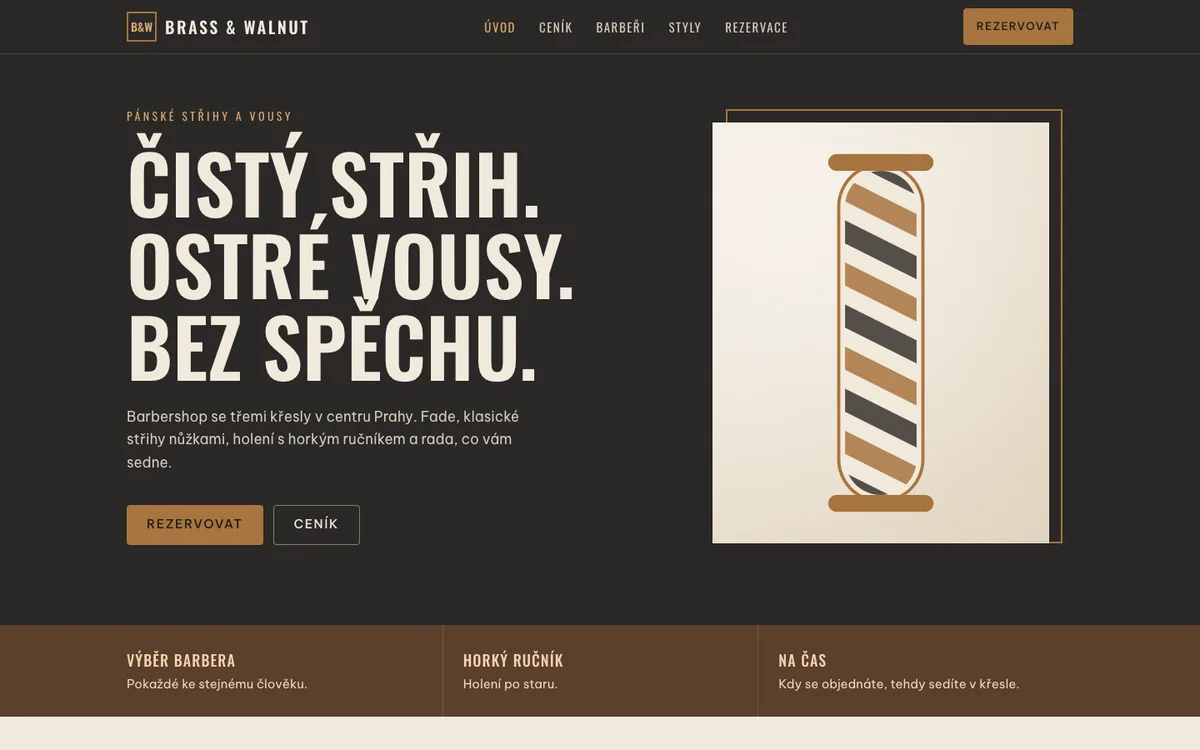
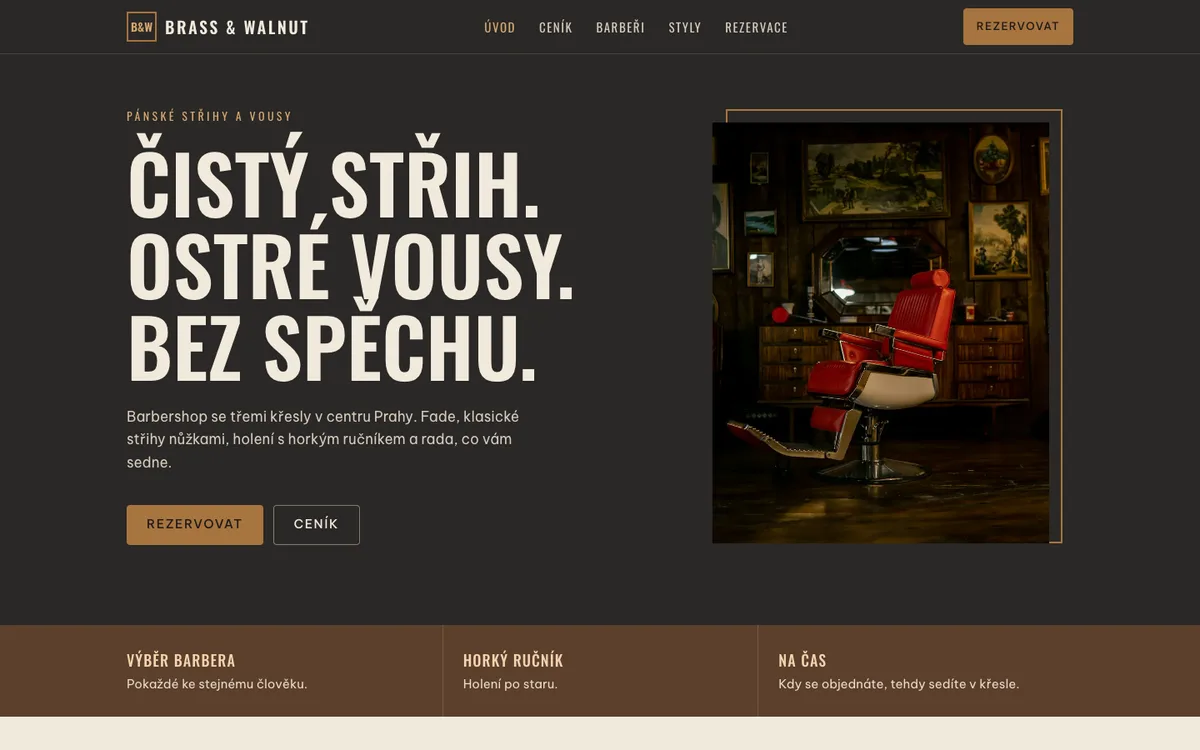
feat(website): ảnh thật (Unsplash, giấy phép miễn phí) cho 14 website mẫu
- 97 ảnh nail/tóc/spa/mi/makeup/barber, WebP 1400px, public/images/website/demo
- Gắn ảnh theo mẫu ở templates/photos.ts; nguồn từng ảnh: docs/website-templates/PHOTO-CREDITS.md
- Xem ảnh lớn không cắt (object-contain); lớp tối dưới chữ đầu trang Marelle
- Font demo chỉ dùng bản biến thiên (tránh lỗi build Turbopack); Spectral -> Source Serif 4
- Chụp lại ảnh xem trước thư viện

Changed region(s): [[0.5858, 0.1533, 0.8942, 0.736]]

diff --git a/src/components/website/templates/photos.ts b/src/components/website/templates/photos.ts
@@ -1,0 +1,96 @@
+import type { L, TemplateContent, Visual } from "./types";
+
+// Ảnh thật cho website mẫu: ảnh Unsplash (giấy phép Unsplash, dùng miễn phí, không cần ghi công; chỉ lấy ảnh
+// có nhãn "free", không lấy Unsplash+). File nằm ở public/images/website/demo/<mã>.webp; mã ↔ ảnh gốc trong
+// docs/website-templates/PHOTO-CREDITS.md. Ảnh chỉ minh hoạ, không phải khách hàng hay tác phẩm của salon nào.
+// Mỗi mẫu: [mã ảnh, chú thích tiếng Séc]. Thứ tự gallery / team khớp với nội dung của mẫu.
+type P = [string, string];
+type Set = { hero: P; gallery: P[]; team: P[] };
+
+export const PHOTOS: Record<string, Set> = {
+  "ivelle-nail": {
+    hero: ["n7", "Nude manikúra v jemném světle"],
+    gallery: [["n6", "Nude odstíny"], ["n8", "Jemná French"], ["n10", "Minimalistická manikúra"], ["n13", "Klasická French"], ["n14", "Jemné zdobení"], ["n5", "Mauve a třpytky"]],
+    team: [["n11", "Práce u stolku"], ["n9", "Vzorník laků"], ["n18", "Nástroje na manikúru"]],
+  },
+  "verra-hair": {
+    hero: ["h17", "Účes na zvláštní příležitost"],
+    gallery: [["h4", "Vlny kulmou"], ["h13", "Mytí a péče"], ["h6", "Foukaná"], ["h8", "Styling kartáčem"], ["h5", "Vrstvy"], ["h9", "Nástroje stylisty"]],
+    team: [["h14", "Střih nůžkami"], ["h11", "Barva a vlny"], ["h16", "Konzultace"]],
+  },
+  "saluna-spa": {
+    hero: ["s19", "Odpočívárna s výhledem"],
+    gallery: [["s9", "Vonné tyčinky a svíčky"], ["s1", "Péče a ručníky"], ["s18", "Klidné světlo"], ["s10", "Ošetřovna"], ["s0", "Aromatický olej"], ["s11", "Relaxační zóna"]],
+    team: [["s14", "Masáž"], ["s5", "Lávové kameny"]],
+  },
+  "brass-barber": {
+    hero: ["b3", "Barberské křeslo"],
+    gallery: [["b2", "Interiér barbershopu"], ["b5", "Detail kontury"], ["b4", "Fade strojkem"], ["b9", "Střih nůžkami"], ["b10", "Úprava hřebenem"], ["b7", "Nástroje barbera"]],
+    team: [["b6", "Styling a foukaná"], ["b1", "Úprava vousů"], ["b0", "Holení břitvou"]],
+  },
+  "lumen-hair": {
+    hero: ["h1", "Dlouhé vlny"],
+    gallery: [["h3", "Balayage"], ["h5", "Vrstvy"], ["h15", "Blond foukaná"], ["h4", "Vlny kulmou"], ["h14", "Přesný střih"], ["h11", "Barva a lesk"]],
+    team: [["h10", "Salon"], ["h2", "Řada křesel"], ["h18", "Prostor salonu"]],
+  },
+  "velvet-lash": {
+    hero: ["l3", "Přirozené řasy"],
+    gallery: [["l0", "Přirozený pohled"], ["l1", "Objem"], ["l6", "Hustý objem"], ["l8", "Řasy a pinzeta"], ["l2", "Aplikace řas"], ["l5", "Detail aplikace"]],
+    team: [["l9", "Lash artist při práci"], ["l7", "Úprava obočí"]],
+  },
+  "chroma-nails": {
+    hero: ["n1", "Barevný nail art"],
+    gallery: [["n15", "Modré ombré"], ["n2", "Želvovina a černá"], ["n9", "Stěna laků"], ["n17", "Mandle s ozdobou"], ["n12", "Chrom"], ["n4", "Růžová na růžové"]],
+    team: [["n16", "French s třpytkami"], ["n3", "Podzimní želvovina"], ["n11", "Gel pod UV lampou"]],
+  },
+  "aurel-beauty": {
+    hero: ["m4", "Rozjasněná pleť"],
+    gallery: [["m12", "Svatební líčení"], ["m8", "Večerní líčení"], ["m10", "Detail očí"], ["m11", "Paletky"], ["m2", "Zrcadlo se světly"], ["m1", "Štětce"]],
+    team: [["m9", "Vizážistka při práci"], ["m0", "Kosmetika"]],
+  },
+  "marelle-nails": {
+    hero: ["n12", "Chromové nehty"],
+    gallery: [["n3", "Podzimní želvovina"], ["n7", "Nude manikúra"], ["n9", "Stěna laků"], ["n13", "Klasická French"], ["n5", "Mauve a třpytky"], ["n10", "Minimalistická manikúra"]],
+    team: [["n11", "Gel pod UV lampou"], ["n18", "Nástroje"]],
+  },
+  "hugo-hair": {
+    hero: ["h7", "Černobílý portrét vlasů"],
+    gallery: [["h1", "Dlouhé vlny"], ["h14", "Střih nůžkami"], ["h3", "Melír"], ["h15", "Rovné vlasy"], ["h5", "Vrstvy"], ["h11", "Přirozená barva"]],
+    team: [["h8", "Foukaná"], ["h4", "Kulma"], ["h9", "Nástroje"]],
+  },
+  "onyx-spa": {
+    hero: ["s16", "Parní lázeň"],
+    gallery: [["s11", "Relaxační zóna"], ["s12", "Lávové kameny"], ["s8", "Klenutý prostor"], ["s17", "Sauna"], ["s4", "Masáž obličeje"], ["s7", "Koupel"]],
+    team: [["s10", "Párová suita"], ["s6", "Masážní místnost"], ["s15", "Soukromé wellness"]],
+  },
+  "iris-lash": {
+    hero: ["l6", "Objemové řasy"],
+    gallery: [["l4", "Objem 2D"], ["l3", "Laminace"], ["l7", "Úprava obočí"], ["l0", "Řasa na řasu"], ["l5", "Hollywood"], ["l2", "Aplikace"]],
+    team: [["l10", "Lash artist"], ["l9", "Lash artist"], ["l7", "Brow artist"]],
+  },
+  "kora-skin": {
+    hero: ["s13", "Ošetření obličeje"],
+    gallery: [["s3", "Pleťová maska"], ["l7", "Laminace obočí"], ["m10", "Líčení"], ["s2", "Olej na masáž"], ["s10", "Ošetřovna"], ["l3", "Lash lifting"]],
+    team: [["s4", "Péče o pleť"], ["l9", "Brow & lash"]],
+  },
+  "nova-studio": {
+    hero: ["h12", "Interiér studia"],
+    gallery: [["h6", "Kadeřnictví"], ["n11", "Manikúra"], ["n18", "Pedikúra"], ["s3", "Kosmetika"], ["h0", "Recepce"], ["s10", "Čekárna"]],
+    team: [["h14", "Kadeřnice"], ["n8", "Manikérka"], ["s13", "Kosmetička"]],
+  },
+};
+
+const cz = (s: string): L => ({ vi: s, cs: s, en: s, de: s });
+const put = (v: Visual, p?: P): Visual => (p ? { ...v, photo: `/images/website/demo/${p[0]}.webp`, alt: cz(p[1]) } : v);
+
+/** Gắn ảnh thật vào hero, gallery và đội ngũ của một mẫu (giữ nguyên hình SVG nếu thiếu ảnh) */
+export function withPhotos(t: TemplateContent): TemplateContent {
+  const ph = PHOTOS[t.slug];
+  if (!ph) return t;
+  return {
+    ...t,
+    home: { ...t.home, hero: put(t.home.hero, ph.hero) },
+    gallery: { ...t.gallery, items: t.gallery.items.map((g, i) => put(g, ph.gallery[i])) },
+    about: { ...t.about, team: t.about.team.map((m, i) => ({ ...m, visual: put(m.visual, ph.team[i]) })) },
+  };
+}

diff --git a/src/components/website/sites/shared.tsx b/src/components/website/sites/shared.tsx
@@ -1,13 +1,14 @@
-import { Cormorant_Garamond, EB_Garamond, Fraunces, Geologica, Hanken_Grotesk, Jost, Newsreader, Plus_Jakarta_Sans, Spectral, Tenor_Sans, Inter_Tight, Josefin_Sans, Lora, Manrope, Montserrat, Noto_Serif_Display, Oswald, Playfair_Display, Space_Grotesk, Unbounded } from "next/font/google";
+import { Cormorant_Garamond, EB_Garamond, Fraunces, Geologica, Hanken_Grotesk, Jost, Newsreader, Plus_Jakarta_Sans, Source_Serif_4, Tenor_Sans, Inter_Tight, Josefin_Sans, Lora, Manrope, Montserrat, Noto_Serif_Display, Oswald, Playfair_Display, Space_Grotesk, Unbounded } from "next/font/google";
 import { UI, dur, price } from "../templates/common";
 import { artPalette, ART_PALETTES } from "../templates/registry";
 import { Art } from "../templates/Art";
 import { DEMO_PAGES, tr, type DemoPage, type L, type TemplateContent, type Visual } from "../templates/types";
 
-// Chữ riêng từng mẫu. preload: false → trình duyệt chỉ tải file font khi trang demo thật sự dùng tới
-export const fontNail = Cormorant_Garamond({ subsets: ["latin", "latin-ext", "vietnamese"], weight: ["400", "500", "600"], style: ["normal", "italic"], display: "swap", preload: false });
-export const fontHair = Space_Grotesk({ subsets: ["latin", "latin-ext", "vietnamese"], weight: ["400", "500", "700"], display: "swap", preload: false });
-export const fontSpa = Lora({ subsets: ["latin", "latin-ext", "vietnamese"], weight: ["400", "500"], style: ["normal", "italic"], display: "swap", preload: false });
+// Chữ riêng từng mẫu. Chỉ dùng font biến thiên (không liệt kê độ đậm): bản chia độ đậm thỉnh thoảng làm Turbopack
+// build lỗi ("next/font/google queries have exactly one entry"). preload: false → trình duyệt chỉ tải file font khi trang demo thật sự dùng tới
+export const fontNail = Cormorant_Garamond({ subsets: ["latin", "latin-ext", "vietnamese"], style: ["normal", "italic"], display: "swap", preload: false });
+export const fontHair = Space_Grotesk({ subsets: ["latin", "latin-ext", "vietnamese"], display: "swap", preload: false });
+export const fontSpa = Lora({ subsets: ["latin", "latin-ext", "vietnamese"], style: ["normal", "italic"], display: "swap", preload: false });
 export const fontBarber = Oswald({ subsets: ["latin", "latin-ext", "vietnamese"], display: "swap", preload: false }); // font biến thiên (bản chia độ đậm làm Turbopack build lỗi)
 // 4 mẫu thời trang: font biến thiên (không liệt kê độ đậm). next/font cần tham số viết thẳng, không dùng biến
 export const fontLumen = Noto_Serif_Display({ subsets: ["latin", "latin-ext", "vietnamese"], display: "swap", preload: false, style: ["normal", "italic"] });
@@ -24,7 +25,7 @@ export const fontMarelle = Fraunces({ subsets: ["latin", "latin-ext", "vietnames
 export const fontMarelleSans = Plus_Jakarta_Sans({ subsets: ["latin", "latin-ext", "vietnamese"], display: "swap", preload: false });
 export const fontHugo = Jost({ subsets: ["latin", "latin-ext"], display: "swap", preload: false }); // Jost không có bộ tiếng Việt; demo luôn tiếng Séc
 export const fontNova = Newsreader({ subsets: ["latin", "latin-ext", "vietnamese"], display: "swap", preload: false, style: ["normal", "italic"] });
-export const fontIris = Spectral({ subsets: ["latin", "latin-ext", "vietnamese"], display: "swap", preload: false, weight: ["400", "600"] });
+export const fontIris = Source_Serif_4({ subsets: ["latin", "latin-ext", "vietnamese"], display: "swap", preload: false });
 export const fontIrisSans = Hanken_Grotesk({ subsets: ["latin", "latin-ext", "vietnamese"], display: "swap", preload: false });
 export const fontKora = Geologica({ subsets: ["latin", "latin-ext", "vietnamese"], display: "swap", preload: false });
 export const fontOnyx = Tenor_Sans({ subsets: ["latin", "latin-ext"], display: "swap", preload: false, weight: "400" });

diff --git a/src/components/website/templates/registry.ts b/src/components/website/templates/registry.ts
@@ -9,13 +9,14 @@ import { velvet } from "./content/velvet";
 import { chroma } from "./content/chroma";
 import { aurel } from "./content/aurel";
 import { hugo, iris, kora, marelle, nova, onyx } from "./content/research";
+import { withPhotos } from "./photos";
 
 // Danh sách mẫu website. Thêm mẫu mới: tạo file nội dung trong content/, một component trong sites/,
 // rồi thêm vào đây (thư viện, trang demo và ảnh xem trước đều đọc từ danh sách này).
 export const TEMPLATES: TemplateContent[] = [
   marelle, hugo, onyx, iris, kora, nova, // dựng theo nghiên cứu 15 website salon Séc
   nail, hair, spa, barber, lumen, velvet, chroma, aurel,
-];
+].map(withPhotos);
 
 /** Nhóm loại salon cho bộ lọc thư viện */
 export type Category = "nail" | "hair" | "spa" | "lash" | "makeup" | "barber";

diff --git a/src/components/website/templates/DemoUI.tsx b/src/components/website/templates/DemoUI.tsx
@@ -151,7 +151,7 @@ export function DemoLightbox({
         {idx !== null && (
           <figure>
             <div className="aspect-[4/3] max-h-[calc(100dvh-140px)] w-full">
-              <Art motif={motif} v={items[idx].v} palette={palettes[idx % palettes.length]} photo={items[idx].photo} alt={items[idx].alt} />
+              <Art motif={motif} v={items[idx].v} palette={palettes[idx % palettes.length]} photo={items[idx].photo} alt={items[idx].alt} className="!object-contain" />
             </div>
             <figcaption className="flex items-center justify-between gap-3 px-3 py-3 sm:px-4">
               <button type="button" onClick={() => go(-1)} className="inline-flex size-11 items-center justify-center rounded-full hover:bg-white/10 focus-visible:outline focus-visible:outline-2 focus-visible:outline-white">

diff --git a/src/components/website/sites/MarelleSite.tsx b/src/components/website/sites/MarelleSite.tsx
@@ -21,7 +21,8 @@ export function MarelleSite(props: SiteProps) {
 
   const Head = ({ title, lead }: { title: string; lead: string }) => (
     <section className="relative overflow-hidden bg-[#8FB0AD]">
-      <div className="absolute inset-0 opacity-60">{s.art(t.gallery.items[1])}</div>
+      <div className="absolute inset-0">{s.art(t.gallery.items[1])}</div>
+      <div className="absolute inset-0 bg-[#2B211C]/45" aria-hidden />
       <div className="relative px-5 pb-6 pt-28 text-center text-[#FFF9E8] sm:pt-32">
         <h1 className={`${serif} text-[2.75rem] leading-none drop-shadow-[0_2px_12px_rgba(43,33,28,0.35)] sm:text-7xl`}>{title}</h1>
         <p className={`${sans} mt-3 text-[17px] font-medium`}>{lead}</p>

diff --git a/docs/website-templates/PHOTO-CREDITS.md b/docs/website-templates/PHOTO-CREDITS.md
@@ -1,0 +1,105 @@
+# Nguồn ảnh website mẫu
+
+Tất cả ảnh lấy từ Unsplash (bộ lọc **Free**, không lấy Unsplash+), dùng theo [Unsplash License](https://unsplash.com/license): miễn phí cho mục đích thương mại, không bắt buộc ghi công, không được bán lại nguyên ảnh. Tải ngày 02/11/2026 từ `images.unsplash.com`, nén WebP rộng tối đa 1400 px, lưu tại `public/images/website/demo/<mã>.webp`. Ảnh chỉ minh hoạ, không phải khách hàng hay tác phẩm của salon nào.
+
+Mã: n = nail, h = tóc, s = spa, l = mi & mày, m = makeup, b = barber. Ảnh nào dùng ở mẫu nào: `src/components/website/templates/photos.ts`.
+
+| Mã | Ảnh gốc |
+|---|---|
+| n0 | https://images.unsplash.com/photo-1519014816548-bf5fe059798b |
+| n1 | https://images.unsplash.com/photo-1571290274554-6a2eaa771e5f |
+| n2 | https://images.unsplash.com/photo-1604654894610-df63bc536371 |
+| n3 | https://images.unsplash.com/photo-1604654894611-6973b376cbde |
+| n4 | https://images.unsplash.com/photo-1604902396830-aca29e19b067 |
+| n5 | https://images.unsplash.com/photo-1607779097040-26e80aa78e66 |
+| n6 | https://images.unsplash.com/photo-1610992015732-2449b76344bc |
+| n7 | https://images.unsplash.com/photo-1610992015762-45dca7fa3a85 |
+| n8 | https://images.unsplash.com/photo-1612887390768-fb02affea7a6 |
+| n9 | https://images.unsplash.com/photo-1619607146034-5a05296c8f9a |
+| n10 | https://images.unsplash.com/photo-1630843599725-32ead7671867 |
+| n11 | https://images.unsplash.com/photo-1632345031435-8727f6897d53 |
+| n12 | https://images.unsplash.com/photo-1736434518489-0eb84070017f |
+| n13 | https://images.unsplash.com/photo-1762373349045-c2decd4ec3f3 |
+| n14 | https://images.unsplash.com/photo-1769687209448-025548dfca8b |
+| n15 | https://images.unsplash.com/photo-1772322586702-73125782bd99 |
+| n16 | https://images.unsplash.com/photo-1772322586754-34c9e6f5be6f |
+| n17 | https://images.unsplash.com/photo-1772322586785-3a34772cbc61 |
+| n18 | https://images.unsplash.com/photo-1775500835259-d3b3f6d6e2f2 |
+| h0 | https://images.unsplash.com/photo-1521590832167-7bcbfaa6381f |
+| h1 | https://images.unsplash.com/photo-1522337360788-8b13dee7a37e |
+| h2 | https://images.unsplash.com/photo-1536520002442-39764a41e987 |
+| h3 | https://images.unsplash.com/photo-1554519934-e32b1629d9ee |
+| h4 | https://images.unsplash.com/photo-1560869713-7d0a29430803 |
+| h5 | https://images.unsplash.com/photo-1560869713-bf165a9cfac1 |
+| h6 | https://images.unsplash.com/photo-1562322140-8baeececf3df |
+| h7 | https://images.unsplash.com/photo-1574015974293-817f0ebebb74 |
+| h8 | https://images.unsplash.com/photo-1580618672591-eb180b1a973f |
+| h9 | https://images.unsplash.com/photo-1595475884562-073c30d45670 |
+| h10 | https://images.unsplash.com/photo-1600948836101-f9ffda59d250 |
+| h11 | https://images.unsplash.com/photo-1629397685944-7073f5589754 |
+| h12 | https://images.unsplash.com/photo-1633681926022-84c23e8cb2d6 |
+| h13 | https://images.unsplash.com/photo-1634449571010-02389ed0f9b0 |
+| h14 | https://images.unsplash.com/photo-1700760934268-8aa0ef52ce0a |
+| h15 | https://images.unsplash.com/photo-1734111719430-fe4a3973f8af |
+| h16 | https://images.unsplash.com/photo-1761839256791-6a93f89fb8b0 |
+| h17 | https://images.unsplash.com/photo-1774660810725-fb04e002003d |
+| h18 | https://images.unsplash.com/photo-1781450090585-1a511b7066d9 |
+| s0 | https://images.unsplash.com/photo-1515377905703-c4788e51af15 |
+| s1 | https://images.unsplash.com/photo-1540555700478-4be289fbecef |
+| s2 | https://images.unsplash.com/photo-1544161515-4ab6ce6db874 |
+| s3 | https://images.unsplash.com/photo-1570172619644-dfd03ed5d881 |
+| s4 | https://images.unsplash.com/photo-1598901986949-f593ff2a31a6 |
+| s5 | https://images.unsplash.com/photo-1600334089648-b0d9d3028eb2 |
+| s6 | https://images.unsplash.com/photo-1600334129128-685c5582fd35 |
+| s7 | https://images.unsplash.com/photo-1610289982320-3891f7c9fd6d |
+| s8 | https://images.unsplash.com/photo-1617182726501-1f5f7b05a68f |
+| s9 | https://images.unsplash.com/photo-1620733723572-11c53f73a416 |
+| s10 | https://images.unsplash.com/photo-1630835425197-50feeba99ecd |
+| s11 | https://images.unsplash.com/photo-1693578538512-fc66f318c833 |
+| s12 | https://images.unsplash.com/photo-1696841212541-449ca29397cc |
+| s13 | https://images.unsplash.com/photo-1706795033728-9232ef548a16 |
+| s14 | https://images.unsplash.com/photo-1741522509438-a120c0bb5e88 |
+| s15 | https://images.unsplash.com/photo-1757940113920-69e3686438d3 |
+| s16 | https://images.unsplash.com/photo-1761470575018-135c213340eb |
+| s17 | https://images.unsplash.com/photo-1772616748530-7cd73053f326 |
+| s18 | https://images.unsplash.com/photo-1772915022472-ffc1df2d6051 |
+| s19 | https://images.unsplash.com/photo-1773924093206-9a433a14bb44 |
+| l0 | https://images.unsplash.com/photo-1535310172250-0dcb6b63324e |
+| l1 | https://images.unsplash.com/photo-1548902378-2ec44c906391 |
+| l2 | https://images.unsplash.com/photo-1589710751893-f9a6770ad71b |
+| l3 | https://images.unsplash.com/photo-1639629509821-c54cdd984227 |
+| l4 | https://images.unsplash.com/photo-1674049406179-d7bf2c263e71 |
+| l5 | https://images.unsplash.com/photo-1674049406467-824ea37c7184 |
+| l6 | https://images.unsplash.com/photo-1683719312734-e31de63957ab |
+| l7 | https://images.unsplash.com/photo-1718720410649-7524fcb0f0a5 |
+| l8 | https://images.unsplash.com/photo-1770999086860-143f54adf01b |
+| l9 | https://images.unsplash.com/photo-1772235616130-b80e12f0ab7a |
+| l10 | https://images.unsplash.com/photo-1772236617396-2f8460293c07 |
+| m0 | https://images.unsplash.com/photo-1512496015851-a90fb38ba796 |
+| m1 | https://images.unsplash.com/photo-1516975080664-ed2fc6a32937 |
+| m2 | https://images.unsplash.com/photo-1551723454-7565a1f5b161 |
+| m3 | https://images.unsplash.com/photo-1583784561105-a674080f391e |
+| m4 | https://images.unsplash.com/photo-1594465919760-441fe5908ab0 |
+| m5 | https://images.unsplash.com/photo-1596462502278-27bfdc403348 |
+| m6 | https://images.unsplash.com/photo-1596704017254-9b121068fb31 |
+| m7 | https://images.unsplash.com/photo-1620464003286-a5b0d79f32c2 |
+| m8 | https://images.unsplash.com/photo-1630084775816-7abb7383ded5 |
+| m9 | https://images.unsplash.com/photo-1636023730877-233b9237d4ec |
+| m10 | https://images.unsplash.com/photo-1709477542149-f4e0e21d590b |
+| m11 | https://images.unsplash.com/photo-1764333746348-1df13b3a4aae |
+| m12 | https://images.unsplash.com/photo-1773688189414-7637b9b138e1 |
+| b0 | https://images.unsplash.com/photo-1503951914875-452162b0f3f1 |
+| b1 | https://images.unsplash.com/photo-1517832606299-7ae9b720a186 |
+| b2 | https://images.unsplash.com/photo-1585747860715-2ba37e788b70 |
+| b3 | https://images.unsplash.com/photo-1592647420148-bfcc177e2117 |
+| b4 | https://images.unsplash.com/photo-1593702275687-f8b402bf1fb5 |
+| b5 | https://images.unsplash.com/photo-1599351431202-1e0f0137899a |
+| b6 | https://images.unsplash.com/photo-1605497788044-5a32c7078486 |
+| b7 | https://images.unsplash.com/photo-1621605815971-fbc98d665033 |
+| b8 | https://images.unsplash.com/photo-1621645582931-d1d3e6564943 |
+| b9 | https://images.unsplash.com/photo-1647140655214-e4a2d914971f |
+| b10 | https://images.unsplash.com/photo-1657105052497-f996284ffff8 |
+| b11 | https://images.unsplash.com/photo-1759134198561-e2041049419c |
+| b12 | https://images.unsplash.com/photo-1773904215697-e6c21fc27ac2 |
+| b13 | https://images.unsplash.com/photo-1781455793310-8427c96454c7 |
+| b14 | https://images.unsplash.com/photo-1781768526571-ef9c333279c7 |

diff --git a/docs/website-templates/README.md b/docs/website-templates/README.md
@@ -48,8 +48,8 @@ Nội dung các website mẫu **luôn bằng tiếng Séc** (`DEMO_LOCALE` trong
 
 ## Ảnh
 
-- Ảnh trong demo hiện là **hình minh hoạ vẽ bằng SVG** (`templates/Art.tsx`), không lấy ảnh của salon thật hay ảnh trên mạng.
-- Muốn dùng ảnh thật (ảnh có bản quyền phù hợp hoặc ảnh tạo mới): chép file vào `public/images/website/demo/…` rồi điền `photo: "/images/website/demo/…"` vào mục tương ứng trong file nội dung (hero, gallery, team). Ghi nguồn/giấy phép vào file này.
+- Ảnh trong demo là **ảnh Unsplash miễn phí** (giấy phép Unsplash), lưu trong `public/images/website/demo/`. Nguồn từng ảnh: `PHOTO-CREDITS.md`.
+- Ảnh nào ở mẫu nào (hero, gallery, đội ngũ) + chú thích: `src/components/website/templates/photos.ts`. Đổi ảnh: chép file WebP vào thư mục demo rồi sửa mã ở đây. Mẫu nào không có ảnh sẽ tự dùng hình minh hoạ SVG (`Art.tsx`).
 - **Ảnh xem trước trong thư viện / trang chủ** (`public/images/website/{mẫu}-{pc|m}.webp`, tiếng Séc) được chụp từ chính demo. Chụp lại sau khi sửa mẫu:
 
 ```bash
